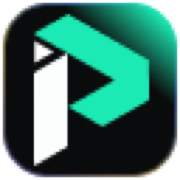
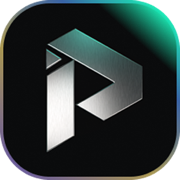
refactor: update portfolio structure and components

diff --git a/src/App.tsx b/src/App.tsx
@@ -140,21 +140,66 @@ const customStyles = `
     justify-content: space-between;
     gap: 16px;
   }
+  .section-head-title {
+    font-family: 'JetBrains Mono', monospace;
+    font-size: 11px;
+    letter-spacing: 0.1em;
+    text-transform: uppercase;
+    color: #5F6369;
+    white-space: nowrap;
+    overflow: hidden;
+    text-overflow: ellipsis;
+    min-width: 0;
+  }
+  .section-head-rule {
+    flex: 1;
+    height: 1px;
+    background: #24262B;
+  }
   .section-head-action {
+    display: inline-flex;
+    align-items: center;
+    gap: 8px;
     white-space: nowrap;
     flex-shrink: 0;
+    font-family: 'JetBrains Mono', monospace;
+    font-size: 13px;
+    color: #6EE7B7;
+    background: rgba(110, 231, 183, 0.06);
+    border: 1px solid rgba(110, 231, 183, 0.3);
+    border-radius: 9999px;
+    /* 40px tall: a comfortable touch target, unlike the old bare text link. */
+    padding: 10px 18px;
+    cursor: pointer;
+    letter-spacing: 0.04em;
+    transition: background 160ms ease, border-color 160ms ease, transform 160ms ease;
+  }
+  .section-head-action:hover {
+    background: rgba(110, 231, 183, 0.12);
+    border-color: #6EE7B7;
+  }
+  .section-head-action:active {
+    transform: scale(0.97);
+  }
+  .section-head-action .arrow {
+    transition: transform 160ms ease;
+  }
+  .section-head-action:hover .arrow {
+    transform: translateX(3px);
   }
   @media (max-width: 700px) {
-    .section-head {
-      flex-direction: column;
-      align-items: flex-start;
-      gap: 10px;
+    /* The rule line is decoration; dropping it buys the label the room it
+       needs to stay on one row beside the button. */
+    .section-head-rule {
+      display: none;
+    }
+    .section-head-title {
+      font-size: 10px;
+      letter-spacing: 0.06em;
     }
     .section-head-action {
-      align-self: flex-end;
-    }
-    .section-head > div > span {
-      white-space: normal !important;
+      font-size: 12px;
+      padding: 9px 15px;
     }
   }
 
@@ -4377,35 +4422,16 @@ function HomePage({ onSelect, onProjects, onAbout, onContact, onSelectCv }: {
       {/* Featured Web Application Projects */}
       <div className="section-head" style={{ marginBottom: 32 }}>
         <div style={{ display: "flex", alignItems: "center", gap: 12, flex: 1, minWidth: 0 }}>
-          <span
-            style={{
-              fontFamily: "'JetBrains Mono', monospace",
-              fontSize: 11,
-              letterSpacing: "0.1em",
-              textTransform: "uppercase",
-              color: "#5F6369",
-              whiteSpace: "nowrap",
-            }}
-          >
-            Featured Web Applications & Platforms
-          </span>
-          <div style={{ flex: 1, height: 1, background: "#24262B" }} />
+          <span className="section-head-title">Featured Web Applications & Platforms</span>
+          <div className="section-head-rule" />
         </div>
         <button
           className="section-head-action"
           onClick={onProjects}
-          style={{
-            fontFamily: "'JetBrains Mono', monospace",
-            fontSize: 12,
-            color: "#6EE7B7",
-            background: "none",
-            border: "none",
-            cursor: "pointer",
-            padding: 0,
-            letterSpacing: "0.04em",
-          }}
+          aria-label="View all 29 projects"
         >
-          View all 29 projects →
+          View all
+          <span className="arrow" aria-hidden="true">→</span>
         </button>
       </div>
 

diff --git a/index.html b/index.html
@@ -10,8 +10,8 @@
       content="Portfolio ของ Piyachon Wanburi (Yim) — Senior UX/UI Designer จากกรุงเทพฯ ประสบการณ์ 5+ ปี ด้าน design systems, complex data models และ enterprise token architectures"
     />
     <link rel="canonical" href="https://www.yimpiyachon.com/" />
-    <link rel="icon" type="image/png" href="/favicon.png" />
-    <link rel="apple-touch-icon" href="/apple-touch-icon.png" />
+    <link rel="icon" type="image/png" href="/favicon.png?v=4" />
+    <link rel="apple-touch-icon" href="/apple-touch-icon.png?v=4" />
 
     <meta property="og:type" content="website" />
     <meta property="og:url" content="https://www.yimpiyachon.com/" />
@@ -20,12 +20,12 @@
       property="og:description"
       content="5+ ปีกับการออกแบบ design systems, complex data models และ enterprise token architectures"
     />
-    <meta property="og:image" content="https://www.yimpiyachon.com/og-cover.jpg" />
+    <meta property="og:image" content="https://www.yimpiyachon.com/og-cover.jpg?v=3" />
     <meta property="og:image:width" content="1200" />
     <meta property="og:image:height" content="630" />
     <meta property="og:image:alt" content="Piyachon Wanburi Portfolio" />
     <meta property="og:site_name" content="Piyachon Wanburi" />
-    <meta name="twitter:image" content="https://www.yimpiyachon.com/og-cover.jpg" />
+    <meta name="twitter:image" content="https://www.yimpiyachon.com/og-cover.jpg?v=3" />
     <meta name="twitter:title" content="Piyachon Wanburi — Senior UX/UI Designer" />
     <meta name="twitter:description" content="5+ ปีกับการออกแบบ design systems, complex data models และ enterprise token architectures" />
     <meta name="twitter:card" content="summary_large_image" />
